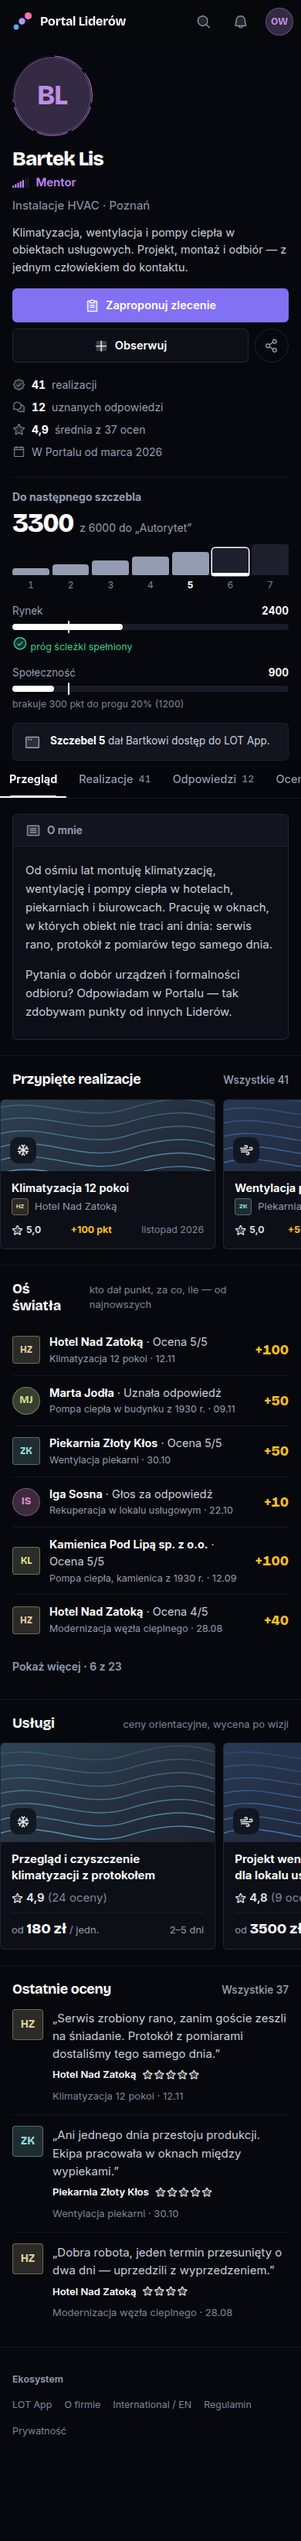
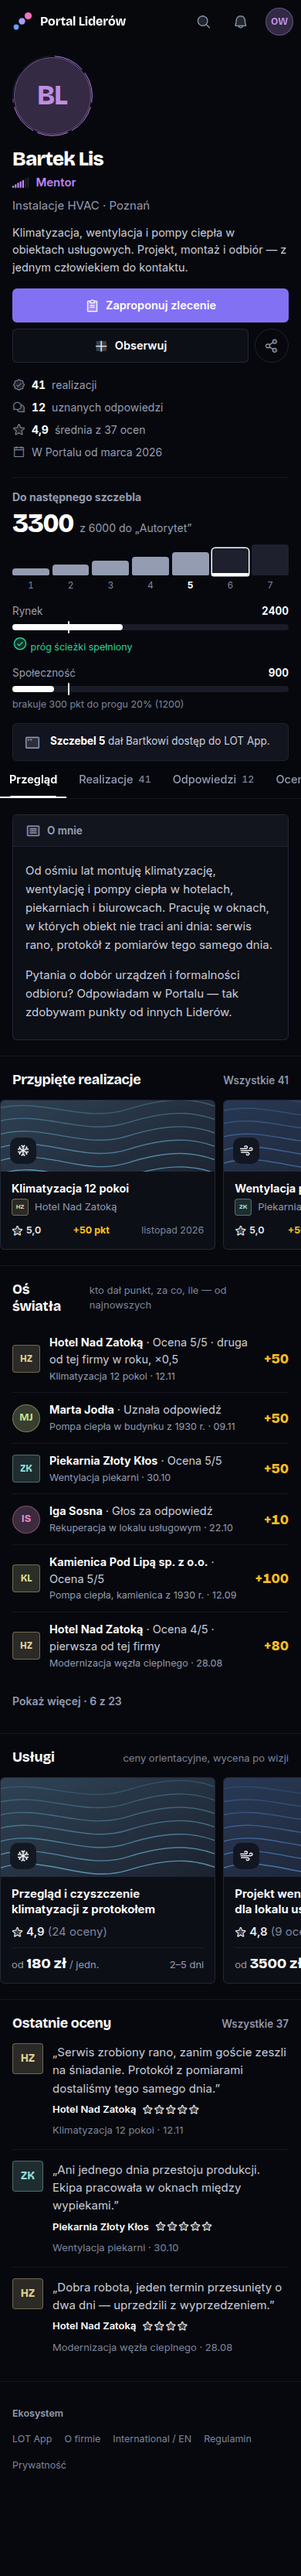
fix(v17): makieta Światło — punkty zgodne z rules.ts (pierwsza ocena od firmy w pełni, kolejna ×0,5), wymóg poziomu w zleceniu (minLevel)

diff --git a/docs/redesign-propozycje/v17/pro/pro.js b/docs/redesign-propozycje/v17/pro/pro.js
@@ -213,11 +213,11 @@
   const nic = (t, od) => `<div class="nic">${I('seal-check')}<span>${t}</span><b>${od}</b></div>`;
   const gw = (n) => `<span class="gwiazdy" aria-label="${n} na 5">${I('star-fill').repeat(n)}</span>`.replaceAll('ph-star-fill', 'ph-star');
 
-  function wZlecenie(f, czas, tresc, tyt, budzet, termin, miasto, oferty, oferenci, zbiera) {
+  function wZlecenie(f, czas, tresc, tyt, budzet, termin, miasto, oferty, oferenci, zbiera, minLv = 0) {
     return `<article class="wpis">${aw(f, 40)}<div>${glowa(f, czas, 'zlecenie')}<p class="tresc">${tresc}</p>
       <div class="zlec"><div class="tyt">${tyt}</div>
         <dl class="fakty"><div><dt>Budżet</dt><dd>${budzet}</dd></div><div><dt>Termin</dt><dd>${termin}</dd></div><div><dt>Miasto</dt><dd>${miasto}</dd></div><div><dt>Branża</dt><dd>${f.branza.split(' ')[0]}</dd></div></dl>
-        <div class="zaufanie">${I('seal-check')}<span>Firma zweryfikowana · 14 zleceń · średnia wystawianych ocen 4,8</span></div>
+        <div class="zaufanie">${I('seal-check')}<span>Firma zweryfikowana · 14 zleceń · średnia wystawianych ocen 4,8</span>${minLv ? `<span class="wymaga">${I('lock-simple')}Oferty od L${minLv} · ${L[minLv - 1].nazwa}</span>` : ''}</div>
         <div class="oferty">${oferenci.length ? `<span class="stos">${oferenci.map((o) => aw(o, 26)).join('')}</span>` : ''}<span><b>${oferty} ${oferty === 1 ? 'oferta' : oferty < 5 ? 'oferty' : 'ofert'}</b> · zbiera do ${zbiera}</span><span class="pasek" aria-hidden="true"><span style="width:${Math.min(100, oferty * 12.5)}%"></span></span><a class="btn obrys maly" href="#">Złóż ofertę</a></div>
         ${nic('Po ocenie 5/5 po realizacji zlecenia', 'do +100 pkt dla Lidera')}
       </div>${akcje()}</div></article>`;
@@ -247,7 +247,7 @@
       wRealizacja(P.marta, P.hotel, '2 godz.', 'Skończyliśmy 15 kWp na dachu hotelu. Najtrudniejsze były mocowania na starej papie — opisałam to w realizacji.', 'Montaż paneli PV 15 kWp', 5, 100, 'ocena 5/5 · dojrzewa 7 dni', 'pv'),
       wPytanie(P.tomek, '4 godz.', 'Wymiana instalacji w lokalu usługowym, odbiór w przyszłym tygodniu.', 'Co musi być w protokole pomiarów, żeby odbiór przeszedł za pierwszym razem?', 2, 'Formalności', [P.iga, P.bartek]),
       wUsluga(P.iga, 'wczoraj', 'Dodałam usługę: wykończenie lokalu pod klucz, z harmonogramem w etapach i odbiorem częściowym.', 'Projekt i wykończenie lokalu usługowego', '2400 zł', '4,7', 22, 'wyk'),
-      wZlecenie(P.kamienica, 'wczoraj', 'Remont klatki schodowej w kamienicy z 1910 r. Dwa etapy, konserwator zabytków już uzgodniony.', 'Remont klatki schodowej', '25–40 tys. zł', '20.01', 'Kraków', 2, [P.iga], '05.12'),
+      wZlecenie(P.kamienica, 'wczoraj', 'Remont klatki schodowej w kamienicy z 1910 r. Dwa etapy, konserwator zabytków już uzgodniony.', 'Remont klatki schodowej', '25–40 tys. zł', '20.01', 'Kraków', 2, [P.iga], '05.12', 3),
       wPytanie(P.ola, '2 dni', 'Mam zlecenie na 24 tys. — firma chce zaliczkę bez aneksu.', 'Przy jakiej wartości zlecenia podpisujecie aneks z zaliczką?', 0, 'Rozliczenia', []),
       wRealizacja(P.bartek, P.piekarnia, '3 dni', 'Wentylacja piekarni gotowa bez zatrzymania produkcji. Najtrudniejsze były okna czasowe, nie sama instalacja.', 'Wentylacja piekarni', 5, 50, 'druga ocena od tej firmy w roku · ×0,5', 'hvac'),
       wZlecenie(P.piekarnia, '4 dni', 'Potrzebny przegląd instalacji elektrycznej przed kontrolą, najlepiej w dni bez wypieku.', 'Przegląd instalacji elektrycznej', '2–3 tys. zł', '28.11', 'Toruń', 6, [P.tomek, P.kuba], '25.11'),
@@ -295,14 +295,14 @@
   function profil() {
     const b = P.bartek;
     const R = [
-      ['Klimatyzacja 12 pokoi', P.hotel, '5,0', 'listopad 2026', 'chlod', 100], ['Wentylacja piekarni', P.piekarnia, '5,0', 'październik 2026', 'hvac', 50],
-      ['Pompa ciepła, kamienica z 1930 r.', P.kamienica, '5,0', 'wrzesień 2026', 'san', 100], ['Modernizacja węzła cieplnego', P.hotel, '4,0', 'sierpień 2026', 'el', 40],
+      ['Klimatyzacja 12 pokoi', P.hotel, '5,0', 'listopad 2026', 'chlod', 50], ['Wentylacja piekarni', P.piekarnia, '5,0', 'październik 2026', 'hvac', 50],
+      ['Pompa ciepła, kamienica z 1930 r.', P.kamienica, '5,0', 'wrzesień 2026', 'san', 100], ['Modernizacja węzła cieplnego', P.hotel, '4,0', 'sierpień 2026', 'el', 80],
       ['Rekuperacja w biurowcu', P.biuro, '5,0', 'lipiec 2026', 'hvac', 100], ['Serwis chłodni', P.piekarnia, '5,0', 'czerwiec 2026', 'chlod', 100],
     ];
     const os = [
-      [P.hotel, 'Ocena 5/5', 'Klimatyzacja 12 pokoi', '12.11', 100], [P.marta, 'Uznała odpowiedź', 'Pompa ciepła w budynku z 1930 r.', '09.11', 50],
+      [P.hotel, 'Ocena 5/5 · druga od tej firmy w roku, ×0,5', 'Klimatyzacja 12 pokoi', '12.11', 50], [P.marta, 'Uznała odpowiedź', 'Pompa ciepła w budynku z 1930 r.', '09.11', 50],
       [P.piekarnia, 'Ocena 5/5', 'Wentylacja piekarni', '30.10', 50], [P.iga, 'Głos za odpowiedź', 'Rekuperacja w lokalu usługowym', '22.10', 10],
-      [P.kamienica, 'Ocena 5/5', 'Pompa ciepła, kamienica z 1930 r.', '12.09', 100], [P.hotel, 'Ocena 4/5', 'Modernizacja węzła cieplnego', '28.08', 40],
+      [P.kamienica, 'Ocena 5/5', 'Pompa ciepła, kamienica z 1930 r.', '12.09', 100], [P.hotel, 'Ocena 4/5 · pierwsza od tej firmy', 'Modernizacja węzła cieplnego', '28.08', 80],
     ];
     document.body.innerHTML = `${gora()}<div class="rama szeroka">${nav('liderzy')}
       <main class="kolumna" id="tresc"><div class="gh">

diff --git a/docs/redesign-propozycje/v17/pro/pro.css b/docs/redesign-propozycje/v17/pro/pro.css
@@ -821,3 +821,7 @@ i.ph-duotone { font-size: 20px; line-height: 1; }
 .wpis .akcje { display: grid; grid-auto-flow: column; grid-auto-columns: 1fr; justify-items: start; }
 .usl { max-width: 340px; }
 @media (max-width: 720px) { .wiecej-link { display: inline-flex; align-items: center; min-height: 44px; } }
+
+.zaufanie { flex-wrap: wrap; }
+.zaufanie .wymaga { margin-left: auto; display: inline-flex; align-items: center; gap: 5px; font-weight: 650; color: var(--text-strong); }
+.zaufanie .wymaga i { color: var(--text-muted); }
